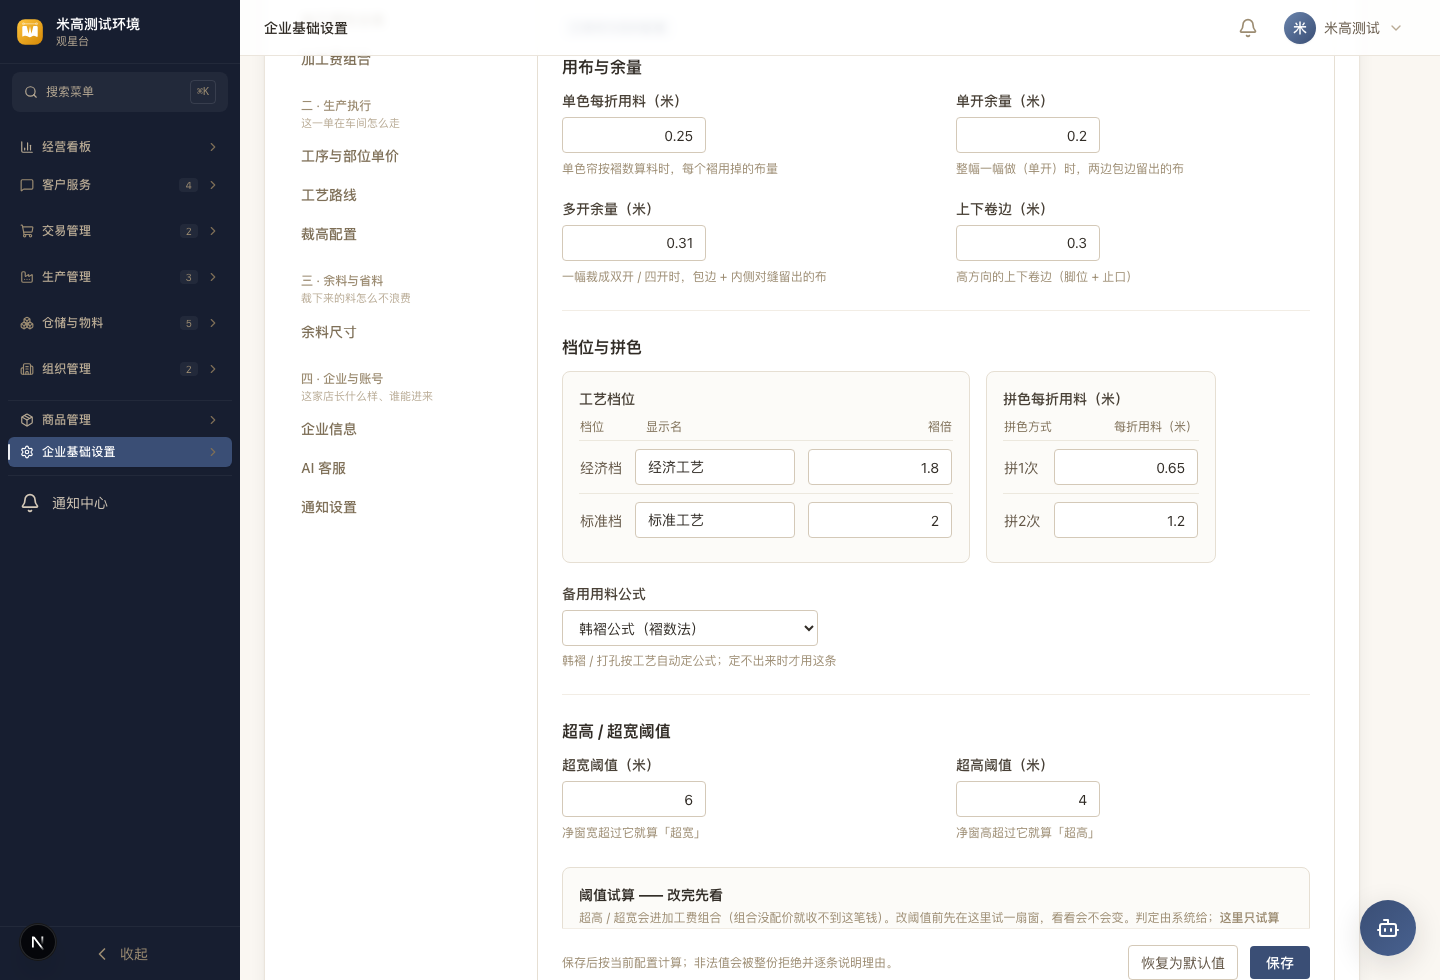
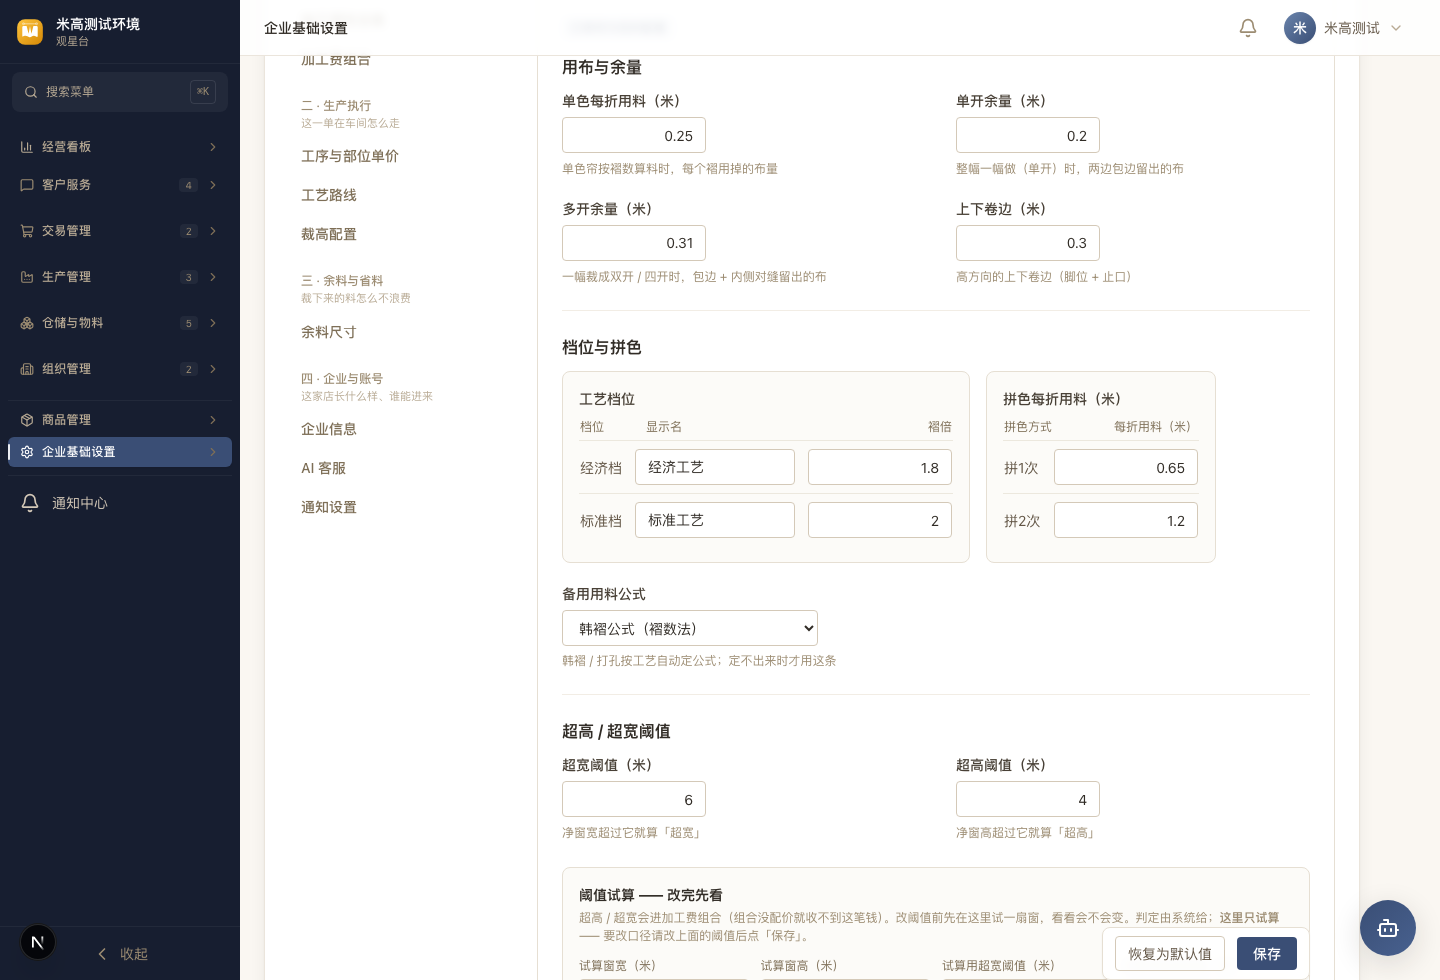
fix(settings): #7124 吸底保存条改右下角小条（整条横幅在静止首屏会盖住「备用用料公式」）
独立复核重放发现：整条白底吸底条在 scrollTop=0 时会盖住 LABEL「备用用料公式」15708px²
与下拉框上部 5632px²。处置：
- 缩成右下角小条（208×53，只放两个按钮）；条内说明文字去掉（它会撑到 556px、再压到下拉框右沿 818），
  说明改挂保存按钮 title；422 逐条理由块移进吸底容器（保存被拒时理由不滚出视口）
- 验收脚本新增机器判据「静止首屏遮挡」（4px 采样 + 文本矩形命中，排除吸底条自身族与 hidden 文本）：
  contentHits = 0 / 728 samples ⇒ 静止态不盖任何内容；滚到档位与拼色时保存按钮仍在视口内

Changed region(s): [[0.375, 0.949, 0.625, 1.0], [0.7812, 0.949, 0.9375, 1.0], [0.6562, 0.9796, 0.75, 1.0]]

diff --git a/frontend/admin-web/src/components/settings/CalcCaliberPanel.tsx b/frontend/admin-web/src/components/settings/CalcCaliberPanel.tsx
@@ -635,48 +635,60 @@ export function CalcCaliberPanel({
             </div>
           )}
 
-          {/* 全域**唯一**的保存按钮（受控只读形态 / 读失败 ⇒ 不渲染）；说明在左、按钮在右 */}
+          {/* 全域**唯一**的保存出口（受控只读形态 / 读失败 ⇒ 不渲染）。
+              🔴 形态 = **右下角常驻的小条**（`sticky` + 右对齐 + 白底微模糊），不是整条白底横幅：
+              整条横幅在**静止首屏**会盖住内容（独立复核读图实测：盖住「备用用料公式」标签
+              15708px² / 下拉框上部 5632px²）—— 而小条在静止态落在面板右下角的空白区，
+              滚动时只压住一小角，且「保存」永远够得着（首屏不用滚 1.3 屏）。
+              重启条件：若商家反馈「小条挡住右下角内容」，改成滚动过表单首屏后才吸底。 */}
           {writable && displayConfig && (
-            <div className="sticky bottom-0 z-10 border-t border-neutral-100 bg-white pt-4">
-              <div className="flex flex-wrap items-center justify-end gap-3">
-                <span className="mr-auto text-xs text-neutral-500">
-                  保存后按当前配置计算；非法值会被整份拒绝并逐条说明理由。
-                </span>
-                <button
-                  type="button"
-                  data-testid="calc-caliber-restore-defaults"
-                  disabled={busy || !engineDefaults}
-                  title={
-                    engineDefaults
-                      ? '把全部算料口径恢复成算料引擎默认值（改完还要点「保存」）'
-                      : '本次没取到引擎默认值 ⇒ 无法恢复（重新打开本页可再试）'
-                  }
-                  onClick={restoreDefaults}
-                  className="rounded border border-neutral-300 px-3 py-1.5 text-sm text-neutral-700 hover:bg-neutral-50 disabled:opacity-50"
-                >
-                  恢复为默认值
-                </button>
-                <button
-                  type="button"
-                  data-testid="calc-caliber-save"
-                  /* 域写面台账的「出口」标记（issue #6825）：类级守卫要求「可编辑控件 + 本域写出口」
-                     成对出现 —— 只看「域内有 input」会被**阈值试算**那类工具输入框满足（假绿）。 */
-                  data-write-exit="calc"
-                  disabled={busy}
-                  onClick={() => void save()}
-                  className="rounded bg-primary-600 px-4 py-1.5 text-sm font-medium text-white hover:bg-primary-700 disabled:opacity-50"
-                >
-                  {busy ? '保存中…' : '保存'}
-                </button>
-              </div>
-              {/* 护栏理由**逐条**展示（后端一次列出每一处不合法）—— 不吞成一句「保存失败」 */}
+            <div className="sticky bottom-0 z-10 pt-2">
+              {/* 护栏理由**逐条**展示（后端一次列出每一处不合法）—— 不吞成一句「保存失败」；
+                  放在吸底容器里 ⇒ 保存被拒时理由不会滚出视口。 */}
               {reasons.length > 0 && (
-                <ul className="mt-2 space-y-1 text-sm text-red-600" data-testid="calc-caliber-reasons">
+                <ul
+                  className="mb-2 space-y-1 rounded-lg border border-red-200 bg-red-50 px-3 py-2 text-sm text-red-600"
+                  data-testid="calc-caliber-reasons"
+                >
                   {reasons.map((r) => (
                     <li key={r}>{r}</li>
                   ))}
                 </ul>
               )}
+              <div className="flex justify-end">
+                <div className="flex flex-wrap items-center justify-end gap-3 rounded-lg border border-neutral-200 bg-white/95 px-3 py-2 shadow-sm backdrop-blur-sm">
+                  {/* ⚠ 小条里**不写说明文字**：那会把条撑到 ~556px 宽，静止首屏又压到
+                      「备用用料公式」下拉框（右沿 818 > 754，独立复核实测）。说明改挂按钮 `title`，
+                      真正需要时由 422 的逐条理由块承载。 */}
+                  <button
+                    type="button"
+                    data-testid="calc-caliber-restore-defaults"
+                    disabled={busy || !engineDefaults}
+                    title={
+                      engineDefaults
+                        ? '把全部算料口径恢复成算料引擎默认值（改完还要点「保存」）'
+                        : '本次没取到引擎默认值 ⇒ 无法恢复（重新打开本页可再试）'
+                    }
+                    onClick={restoreDefaults}
+                    className="rounded border border-neutral-300 px-3 py-1.5 text-sm text-neutral-700 hover:bg-neutral-50 disabled:opacity-50"
+                  >
+                    恢复为默认值
+                  </button>
+                  <button
+                    type="button"
+                    data-testid="calc-caliber-save"
+                    /* 域写面台账的「出口」标记（issue #6825）：类级守卫要求「可编辑控件 + 本域写出口」
+                       成对出现 —— 只看「域内有 input」会被**阈值试算**那类工具输入框满足（假绿）。 */
+                    data-write-exit="calc"
+                    disabled={busy}
+                    title="保存后按当前配置计算；非法值会被整份拒绝并逐条说明理由。"
+                    onClick={() => void save()}
+                    className="rounded bg-primary-600 px-4 py-1.5 text-sm font-medium text-white hover:bg-primary-700 disabled:opacity-50"
+                  >
+                    {busy ? '保存中…' : '保存'}
+                  </button>
+                </div>
+              </div>
             </div>
           )}
         </div>

diff --git a/acceptance/2026-10-17/calc-caliber-7124/README.md b/acceptance/2026-10-17/calc-caliber-7124/README.md
@@ -28,6 +28,19 @@ echo $?    # 0 = 三条机器判据全过
 | 2 | 同上 + `档位与拼色.png`（14:40，改后） | 两表改**上下排**、表格不撑满 ⇒ 列头与输入框对齐、无裁切 ✓ |
 | 3 | `算料口径-整页.png`（14:44，文案改后重拍） | 阈值试算文案改为「**这里只试算** —— 要改口径请改上面的阈值后点「保存」」；不再与能保存的写面自相矛盾 ✓ |
 | 4 | `档位与拼色.png` + `保存条-sticky.png`（14:47，按独立复核的 P2 处置后重拍） | 两卡贴合内容并排（不再是「748px 大框装 196–374px 小表」）、列头加深到 6.2:1、区块标题升到 16px、保存条 sticky 在视口底部（读数 `{"position":"sticky","buttonBottom":979,"viewportH":980}`）✓ |
+| 5 | `算料口径-首屏.png`（15:01，吸底形态再收一刀后重拍） | 常驻保存出口从「整条白底横幅」改为**右下角小条**（208×53）：静止首屏 **contentHits = 0**（不盖任何文字/控件），滚到「档位与拼色」时按钮仍在视口内 ✓ |
+
+### 第二轮独立复核（重放）新发现 → 处置
+
+复核重放判「5 条 P2 + 1 条观察项全部关闭、P0/P1 无新增」，但发现**吸底保存条在静止首屏会盖住内容**
+（读数：`LABEL「备用用料公式」` 15708px²、`SELECT calc-caliber-default_formula` 上部 5632px²）。
+处置（本目录第 5 轮）：
+
+1. 吸底形态从「整条横幅」改成**右下角常驻小条**（只放两个按钮，不写说明文字 —— 写进去会把条撑到 556px、
+   又压到下拉框右沿）；说明挂按钮 `title`，真正需要时由 422 逐条理由块承载；
+2. 理由块（422）也移进吸底容器 ⇒ 保存被拒时理由不会滚出视口；
+3. 机器判据（本脚本新增）：`静止首屏遮挡读数 = {"dock":{...208×53},"samples":728,"contentHits":0,"ratio":0,"under":[]}`
+   —— 采样法（4px 栅格 + 文本矩形命中，吸底条自身族与 `visibility:hidden` 文本排除在外）。
 
 ### 独立复核（另一个 AI，自己写脚本、不看本目录脚本）发现的 P2 与处置
 
